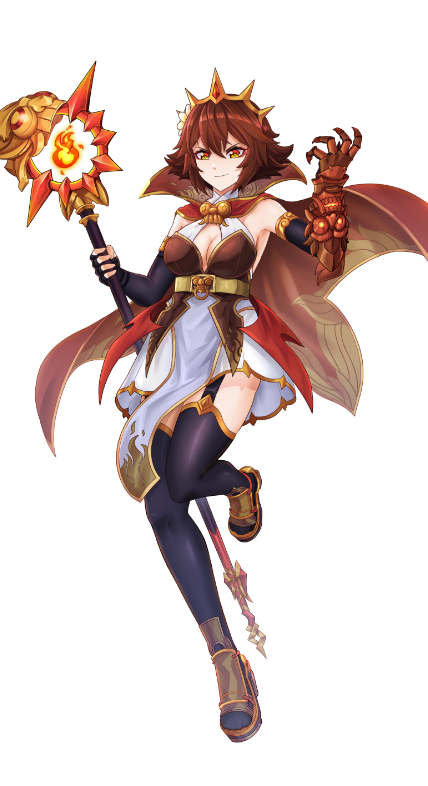
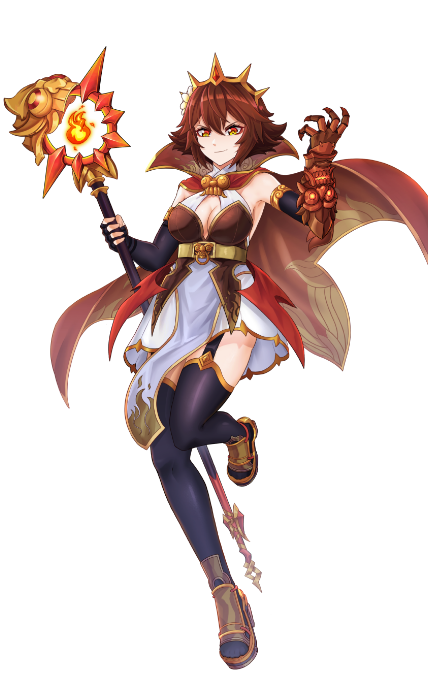
fix char page

Changed region(s): [[0.0, 0.06, 1.0, 0.96], [0.3949, 0.72, 0.4252, 0.75]]

diff --git a/components/Characters/index.tsx b/components/Characters/index.tsx
@@ -128,7 +128,9 @@ const Characters: React.FC = () => {
   };
 
   return (
-    <div className="relative overflow-hidden min-h-screen lg:h-screen">
+    <div
+      className={`relative overflow-hidden h-screen ${characterLists[indexChar].bg} bg-center bg-cover`}
+    >
       <Modal
         id="character"
         isShown={isShown}
@@ -228,11 +230,11 @@ const Characters: React.FC = () => {
           />
         </div>
       </div>
-      {/* <div
+      <div
         className={`${characterLists[indexChar].bg} h-full bg-cover bg-center `}
       >
         <div className="ml-0 lg:ml-[8%] lg:pl-0 lgf:ml-0 lgf:pl-[8%] pt-6 relative w-full h-full flex flex-col-reverse lg:flex-row justify-end lg:justify-center items-center">
-          <div className="bg-gradient-black w-full lg:w-2/5 absolute z-[2] bottom-[0%] lg:static">
+          <div className="bg-gradient-black w-full lg:w-2/5 absolute z-[2] bottom-[0%] flex flex-col lg:static">
             <div className="p-2 lg:p-0 flex justify-center items-center lg:flex-col">
               <div className="md:p-3 lg:pr-0">
                 <div className="flex items-center font-friz-bold gap-4">
@@ -315,6 +317,53 @@ const Characters: React.FC = () => {
                 </div>
               </div>
             </div>
+            <div className="block relative lg:hidden bg-[#010a1a] py-4">
+              <Swiper
+                slideToClickedSlide
+                centeredSlides
+                slidesPerView={"auto"}
+                spaceBetween={10}
+                onActiveIndexChange={(swiperr: any) => {
+                  handleClick(swiperr.activeIndex);
+                }}
+              >
+                {[...Array(6)].map((item: any, idx: number) => (
+                  <SwiperSlide className="!w-fit" key={idx}>
+                    <div className="relative flex flex-col justify-center items-center">
+                      <img
+                        src={`/assets/images/btn-${idx + 1}-mob.png`}
+                        alt=""
+                      />
+                      <svg
+                        width="22"
+                        height="22"
+                        viewBox="0 0 32 32"
+                        fill="none"
+                        xmlns="http://www.w3.org/2000/svg"
+                      >
+                        <rect
+                          x="1.15242"
+                          y="16.2344"
+                          width="21.2932"
+                          height="21.2932"
+                          transform="rotate(-45 1.15242 16.2344)"
+                          stroke={idx != indexChar ? "transparent" : "white"}
+                        />
+                        <rect
+                          x="7.17188"
+                          y="15.957"
+                          width="12.7942"
+                          height="12.7942"
+                          transform="rotate(-45 7.17188 15.957)"
+                          fill={idx != indexChar ? "#161F2C" : "white"}
+                        />
+                      </svg>
+                    </div>
+                  </SwiperSlide>
+                ))}
+              </Swiper>
+              <div className="absolute w-full h-[2px] bg-line bottom-[22.5%]"></div>
+            </div>
           </div>
           <div className="w-full overflow-hidden  lg:w-3/5  relative">
             <img
@@ -333,15 +382,15 @@ const Characters: React.FC = () => {
             />
           </div>
         </div>
-      </div> */}
-      {characterLists.map((item: any, idx: number) => (
+      </div>
+      {/* {characterLists.map((item: any, idx: number) => (
         <div
           key={idx}
-          className={`${item.bg} slide-char ${
+          className={` slide-char ${
             indexChar === idx ? "active" : "inactive"
-          } h-full bg-cover bg-center `}
+          } h-full `}
         >
-          <div className="ml-0 lg:ml-[8%] lg:pl-0 lgf:ml-0 lgf:pl-[8%] pt-6 relative w-full h-full flex flex-col-reverse lg:flex-row justify-end lg:justify-center items-center">
+          <div className="ml-0 lg:ml-[8%] lg:pl-0 lgf:ml-0 lgf:pl-[8%] pt-6 relative w-full h-full  flex flex-col-reverse lg:flex-row justify-end lg:justify-center items-center">
             <div className="bg-gradient-black w-full lg:w-2/5 absolute z-[2] bottom-[0%] lg:static">
               <div className="p-2 lg:p-0 flex justify-center items-center lg:flex-col">
                 <div className="md:p-3 lg:pr-0">
@@ -432,7 +481,7 @@ const Characters: React.FC = () => {
             </div>
           </div>
         </div>
-      ))}
+      ))} */}
       {/* <Swiper
         className="!h-screen "
         modules={[EffectFade]}
@@ -547,50 +596,6 @@ const Characters: React.FC = () => {
           </SwiperSlide>
         ))}
       </Swiper> */}
-      <div className="block relative lg:hidden bg-[#010a1a] py-4">
-        <Swiper
-          slideToClickedSlide
-          centeredSlides
-          slidesPerView={"auto"}
-          spaceBetween={10}
-          onActiveIndexChange={(swiperr: any) => {
-            handleClick(swiperr.activeIndex);
-          }}
-        >
-          {[...Array(6)].map((item: any, idx: number) => (
-            <SwiperSlide className="!w-fit" key={idx}>
-              <div className="relative flex flex-col justify-center items-center">
-                <img src={`/assets/images/btn-${idx + 1}-mob.png`} alt="" />
-                <svg
-                  width="22"
-                  height="22"
-                  viewBox="0 0 32 32"
-                  fill="none"
-                  xmlns="http://www.w3.org/2000/svg"
-                >
-                  <rect
-                    x="1.15242"
-                    y="16.2344"
-                    width="21.2932"
-                    height="21.2932"
-                    transform="rotate(-45 1.15242 16.2344)"
-                    stroke={idx != indexChar ? "transparent" : "white"}
-                  />
-                  <rect
-                    x="7.17188"
-                    y="15.957"
-                    width="12.7942"
-                    height="12.7942"
-                    transform="rotate(-45 7.17188 15.957)"
-                    fill={idx != indexChar ? "#161F2C" : "white"}
-                  />
-                </svg>
-              </div>
-            </SwiperSlide>
-          ))}
-        </Swiper>
-        <div className="absolute w-full h-[2px] bg-line bottom-[22.5%]"></div>
-      </div>
     </div>
   );
 };

diff --git a/styles/style.scss b/styles/style.scss
@@ -518,6 +518,9 @@ html {
 .slide-char.inactive {
   opacity: 0;
   visibility: hidden;
+  top: 0;
+  left: 0;
+  z-index: 0;
   position: absolute;
   transition: all 0.5s ease-in;
 }
@@ -525,5 +528,6 @@ html {
   opacity: 1;
   position: relative;
   visibility: visible;
+  z-index: 1;
   transition: all 0.5s ease-in;
 }
